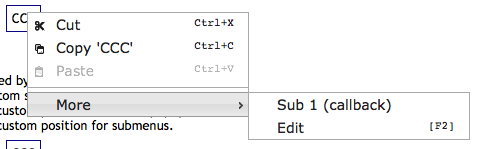
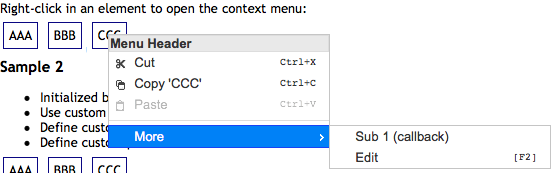
Add new menu option `isHeader` for category headers
Close #100

Changed region(s): [[0.0, 0.0, 0.9959, 1.0], [0.5913, 0.9664, 0.9959, 0.9933], [0.4046, 0.4295, 0.5913, 0.5101]]

diff --git a/jquery.ui-contextmenu.js b/jquery.ui-contextmenu.js
@@ -159,6 +159,7 @@ $.widget("moogle.contextmenu", {
 			.addClass(opts.addClass)
 			// Create a menu instance that delegates events to our widget
 			.menu($.extend(true, {}, opts.uiMenuOptions, {
+				items: "> :not(.ui-widget-header)",
 				blur: $.proxy(opts.blur, this),
 				create: $.proxy(opts.createMenu, this),
 				focus: $.proxy(opts.focus, this),
@@ -421,6 +422,9 @@ $.extend($.moogle.contextmenu, {
 			}
 			if ( entry.disabled ) {
 				$parentLi.addClass("ui-state-disabled");
+			}
+			if ( entry.isHeader ) {
+				$parentLi.addClass("ui-widget-header");
 			}
 			if ( entry.addClass ) {
 				$parentLi.addClass(entry.addClass);

diff --git a/demo/index-1-12.html b/demo/index-1-12.html
@@ -82,6 +82,7 @@ $(function(){
 		preventSelect: true,
 		taphold: true,
 		menu: [
+			{title: "Menu Header", isHeader: true},
 			{title: "Cut <kbd>Ctrl+X</kbd>", cmd: "cut", uiIcon: "ui-icon-scissors"},
 			{title: "Copy <kbd>Ctrl+C</kbd>", cmd: "copy", uiIcon: "ui-icon-copy"},
 			{title: "Paste <kbd>Ctrl+V</kbd>", cmd: "paste", uiIcon: "ui-icon-clipboard", disabled: true },

diff --git a/CHANGELOG.md b/CHANGELOG.md
@@ -1,7 +1,8 @@
 # 1.11.1-0 / Unreleased
 
  * [FEATURE] Support jQuery UI 1.12 (wrap menu items in separate `<div>` tags)
- * Add jQuery Ui 1.12 sample with new 'Base' theme
+ * [FEATURE] #100 new menu option `isHeader` for category headers.
+ * Add jQuery UI 1.12 sample with new 'Base' theme
 
 # 1.11.0 / 2015-09-10
 
